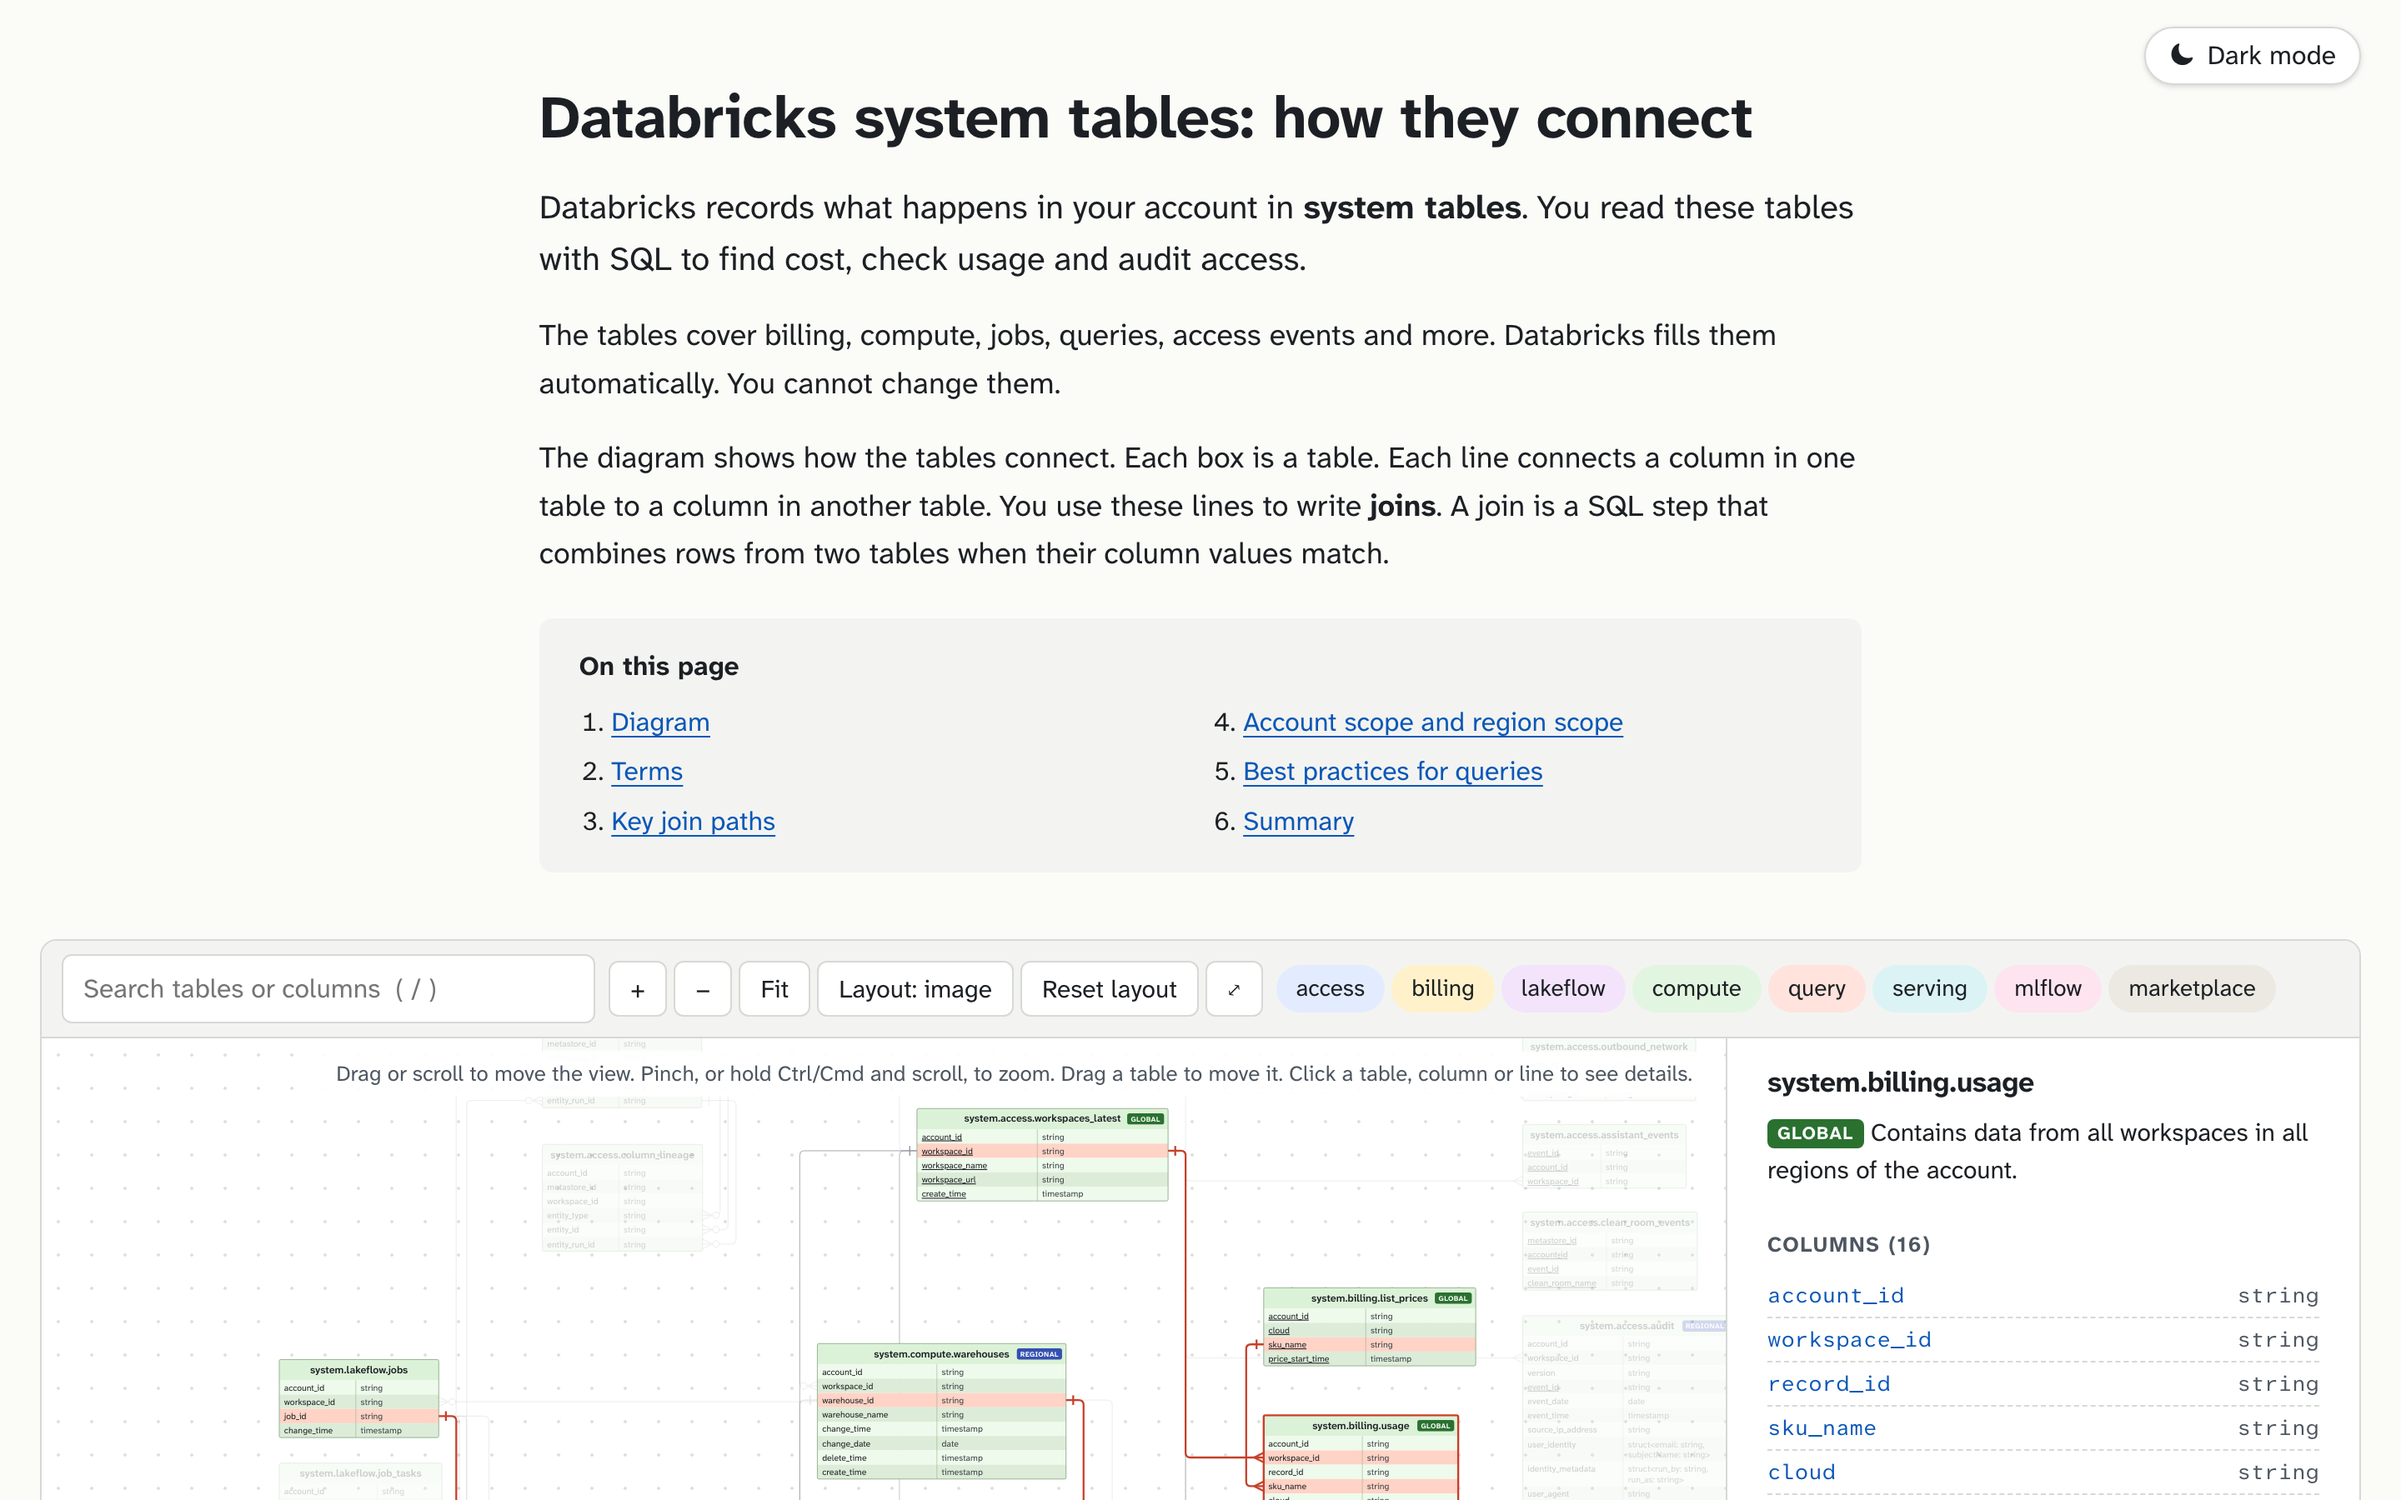
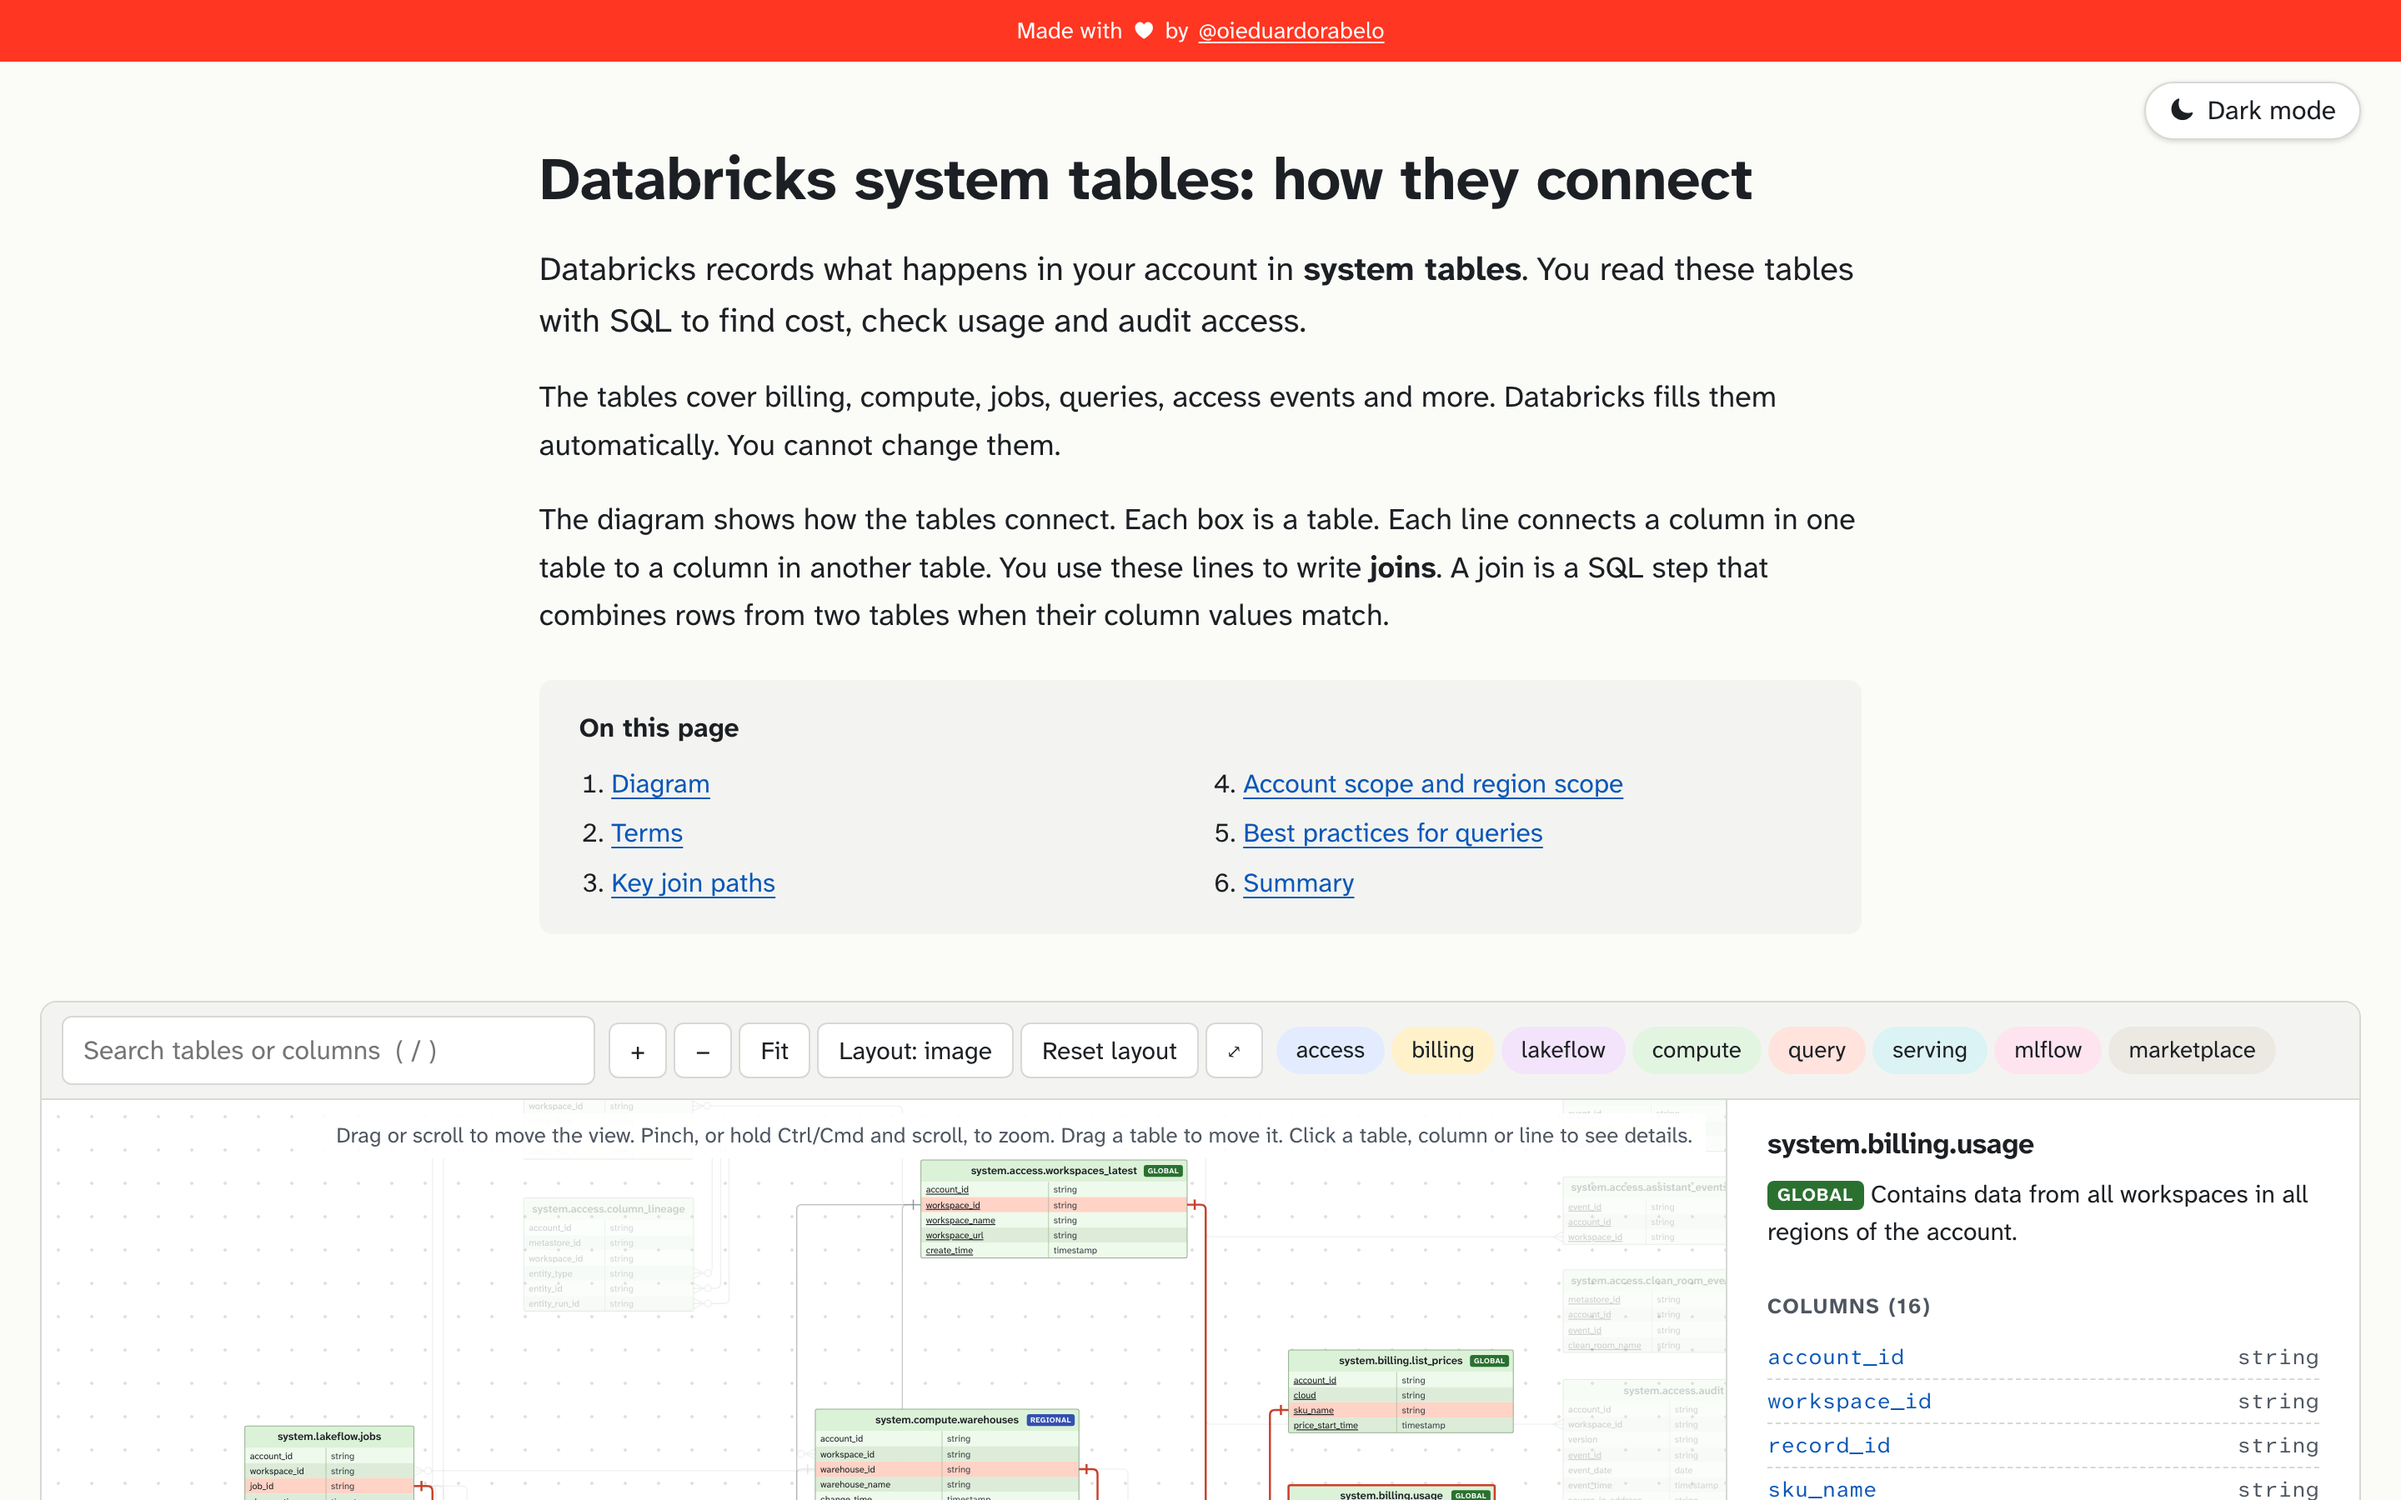
Add Made with top bar

diff --git a/styles.css b/styles.css
@@ -296,6 +296,14 @@ footer { margin-top: var(--s8); padding-top: var(--s4); border-top: 1px solid va
 }
 
 /* ---------- Theme toggle ---------- */
-.theme-toggle { position: fixed; z-index: 10; top: var(--s4); right: var(--s5); box-shadow: 0 1px 3px rgb(0 0 0 / 0.15); display: inline-flex; align-items: center; gap: var(--s2); font-size: var(--text-sm); border-radius: 999px; padding: 6px 14px; }
+.theme-toggle { position: fixed; z-index: 10; top: calc(var(--topbar-h) + var(--s3)); right: var(--s5); box-shadow: 0 1px 3px rgb(0 0 0 / 0.15); display: inline-flex; align-items: center; gap: var(--s2); font-size: var(--text-sm); border-radius: 999px; padding: 6px 14px; }
 .theme-toggle .icon { font-size: 1.05em; line-height: 1; }
-@media (max-width: 900px) { .theme-toggle { position: absolute; top: var(--s3); right: var(--s3); } }
+@media (max-width: 900px) { .theme-toggle { position: absolute; top: calc(var(--topbar-h) + var(--s2)); right: var(--s3); } }
+
+/* ---------- Top bar (same as databricks-architecture-icons) ---------- */
+:root { --lava: #FF3621; --oat-medium: #EEEDE9; --topbar-h: 37px; }
+.topbar { background: var(--lava); color: #fff; padding: 8px 0; font-size: 14px; line-height: 1.5; }
+.topbar .wrap { max-width: 1440px; margin: 0 auto; padding: 0 32px; display: flex; align-items: center; justify-content: center; gap: 6px; }
+.topbar a { color: #fff; text-decoration: underline; text-underline-offset: 2px; }
+.topbar a:hover { color: var(--oat-medium); }
+@media (max-width: 640px) { .topbar .wrap { padding: 0 16px; } }

diff --git a/index.html b/index.html
@@ -15,6 +15,11 @@
   <link rel="stylesheet" href="styles.css">
 </head>
 <body>
+  <div class="topbar">
+    <div class="wrap">Made with <span aria-hidden="true">&hearts;</span> by
+      <a href="https://github.com/oieduardorabelo/databricks-system-tables-relationships" target="_blank" rel="noreferrer">@oieduardorabelo</a>
+    </div>
+  </div>
   <button id="theme-toggle" class="theme-toggle" type="button" title="Switch between light and dark colours"><span class="icon" aria-hidden="true">☾</span> Dark mode</button>
   <header class="page-header">
     <h1>Databricks system tables: how they connect</h1>
